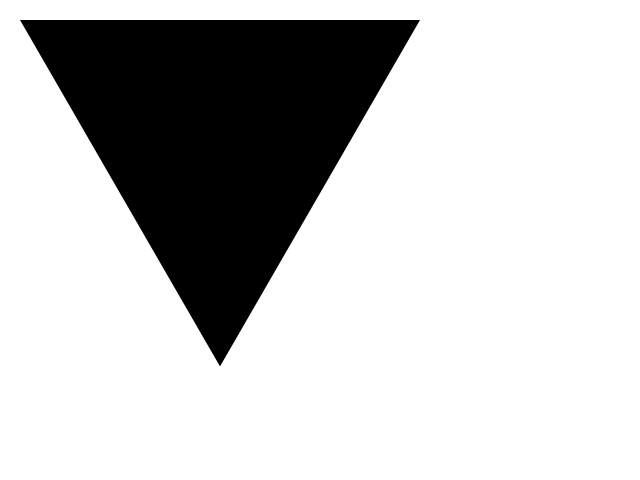
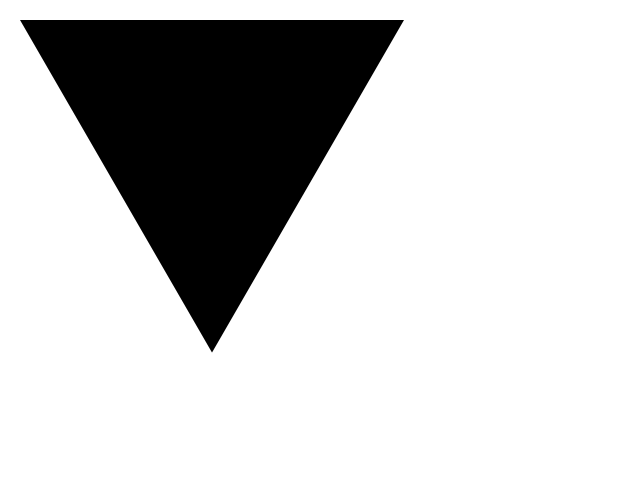
Add files via upload

Changed region(s): [[0.3125, 0.0312, 0.6562, 0.75]]

diff --git a/zad3.py b/zad3.py
@@ -1,24 +1,35 @@
 import cairo
 
-def sierpinski(ctx, level, size):
-    if level == 0:
-        ctx.move_to(0, 0)
-        ctx.line_to(size, 0)
-        ctx.line_to(size / 2, size * (3**0.5) / 2)
-        ctx.close_path()
-        ctx.fill()
-    else:
-        sierpinski(ctx, level - 1, size / 2)
+def sierpinski(ctx, level):
+    surface = cairo.ImageSurface(cairo.Format.RGB24, 640, 480)
+    width = surface.get_width()
+    height = surface.get_height()
+    size = min(width, height) * 0.8
 
-        ctx.translate(size / 2, 0)
-        sierpinski(ctx, level - 1, size / 2)
+    def draw_triangle(level, size):
+        if level == 0:
+            ctx.move_to(0, 0)
+            ctx.line_to(size, 0)
+            #"size * (3**0.5) / 2: This is the y-coordinate of the point. 
+            # It's calculated using the properties of an equilateral triangle. 
+            # The height of an equilateral triangle can be found using the formula: height = (side_length * sqrt(3)) / 2. 
+            # In this case, size is the side length of the triangle, and (3**0.5) is the square root of 3."
+            ctx.line_to(size / 2, size * (3**0.5) / 2)
+            ctx.close_path()
+            ctx.fill()
+        else:
+            draw_triangle(level - 1, size / 2)
 
-        ctx.translate(-size / 4, size * (3**0.5) / 4)
-        sierpinski(ctx, level - 1, size / 2)
+            ctx.translate(size / 2, 0)
+            draw_triangle(level - 1, size / 2)
 
-        # Undo the translations
-        ctx.translate(size / 4, -size * (3**0.5) / 4)
-        ctx.translate(-size / 2, 0)
+            ctx.translate(-size / 4, size * (3**0.5) / 4)
+            draw_triangle(level - 1, size / 2)
+
+            ctx.translate(size / 4, -size * (3**0.5) / 4)
+            ctx.translate(-size / 2, 0)
+
+    draw_triangle(level, size)
 
 def main():    
     surface = cairo.ImageSurface(cairo.Format.RGB24, 640, 480)
@@ -32,8 +43,10 @@ def main():
     ctx.set_source_rgb(0, 0, 0)
     
     ctx.translate(20, 20)
-    sierpinski(ctx, 3, 400)
-    surface.write_to_png("result3-3.png")
+
+    sierpinski(ctx, 4)
+    
+    surface.write_to_png("result3-4.png")
 
 if __name__ == "__main__":
     main()

diff --git a/zad2.py b/zad2.py
@@ -25,31 +25,27 @@ def draw_tree(ctx):
     ctx.fill()
 
 def main():
-    # Create a 640x480 image surface in RGB24 format
     surface = cairo.ImageSurface(cairo.Format.RGB24, 640, 480)
 
-    # Create a drawing context
     ctx = cairo.Context(surface)
 
-    # Draw the first tree
     draw_tree(ctx)
 
-    # Move to a new position and scale
     ctx.translate(100, 0)
     ctx.scale(1.5, 1.5)
     draw_tree(ctx)
 
-    # Move to a new position and scale
+
     ctx.translate(100, 0)
     ctx.scale(0.5, 0.5)
     draw_tree(ctx)
 
-    # Move to a new position and scale
+
     ctx.translate(200, 0)
     ctx.scale(0.75, 0.75)
     draw_tree(ctx)
 
-    # Save the surface to a PNG file
+
     surface.write_to_png("result2.png")
 
 if __name__ == "__main__":
